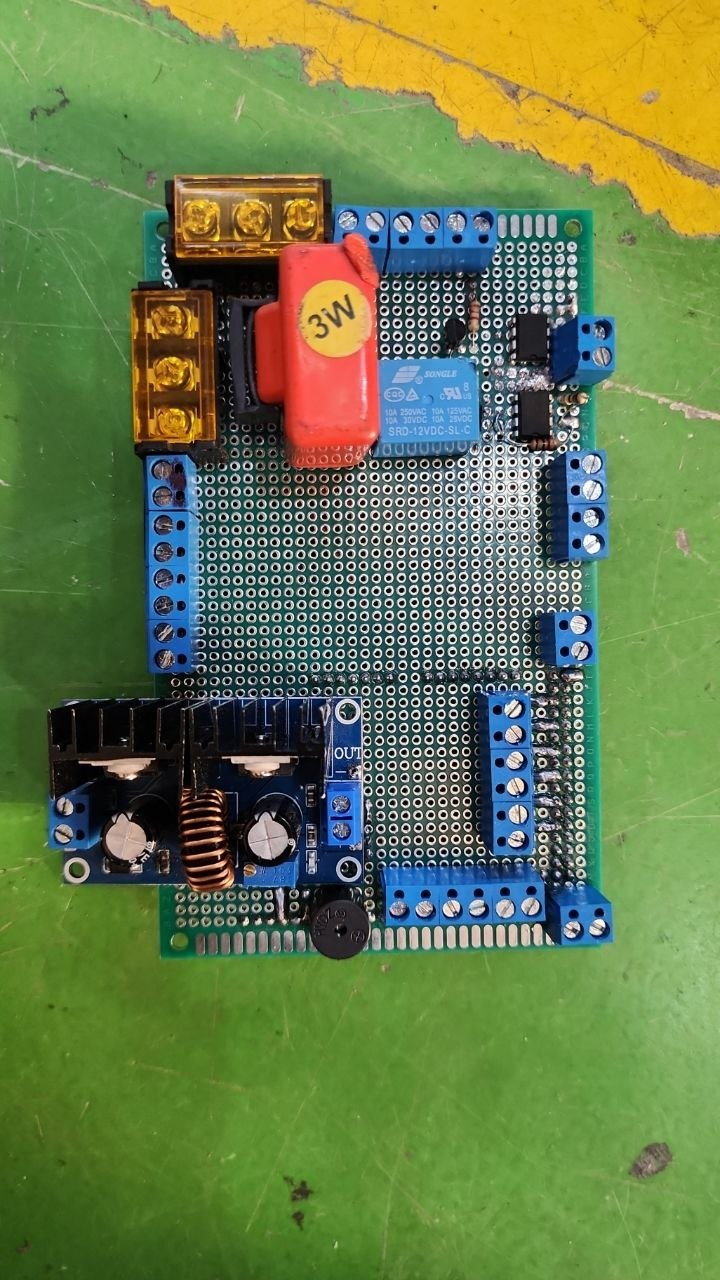
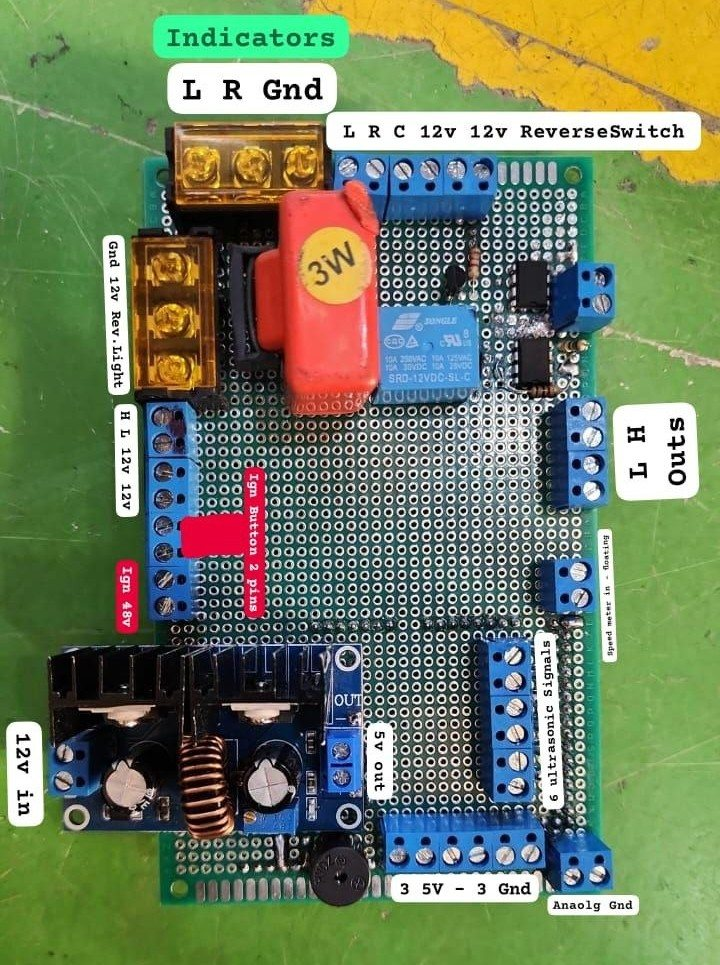
EVER 5: new photo set with competition-day main image; more space under 3D preview
Claude-Session: https://claude.ai/code/session_01GDMxHVDaxneFdes9ouXJvJ

diff --git a/index.html b/index.html
@@ -526,15 +526,15 @@ body{overflow-x:clip}
 @media (max-width:420px){.skcard{width:auto}}
 
 /* v21 3D board tour */
-.tour3d{margin-inline:-20px;padding-block:clamp(56px,8vw,96px) 0}
+.tour3d{margin-inline:-20px;padding-block:clamp(56px,8vw,96px) clamp(48px,7vw,96px)}
 .tour3d .t3head{width:fit-content;max-width:min(1100px,calc(100% - 40px));margin-inline:auto;padding:14px 22px;border-radius:20px;background:color-mix(in srgb,var(--bg) 80%,transparent);-webkit-backdrop-filter:blur(6px);backdrop-filter:blur(6px)}
 .t3wrap{display:grid;margin-top:12px}
 .t3wrap>*{grid-area:1/1}
 .t3stage{position:sticky;top:calc(var(--navh,52px) + 6px);align-self:start;height:calc(100vh - var(--navh,52px) - 12px);height:calc(100svh - var(--navh,52px) - 12px);z-index:0;pointer-events:none;-webkit-mask-image:linear-gradient(transparent,#000 9%,#000 91%,transparent);mask-image:linear-gradient(transparent,#000 9%,#000 91%,transparent)}
 .t3stage.live{pointer-events:auto}
-.t3stage model-viewer{position:absolute;inset:0;width:100%;height:100%;--poster-color:transparent;background:transparent;touch-action:pan-y;opacity:0;transition:opacity .6s}
+.t3stage model-viewer{position:absolute;left:0;top:0;width:100%;height:calc(100% - 40px);--poster-color:transparent;background:transparent;touch-action:pan-y;opacity:0;transition:opacity .6s}
 .t3stage.ready model-viewer{opacity:1}
-.t3poster{position:absolute;inset:0;width:100%;height:100%;object-fit:contain;object-position:60% 50%;transition:opacity .5s}
+.t3poster{position:absolute;left:0;top:0;width:100%;height:calc(100% - 64px);object-fit:contain;object-position:60% 40%;transition:opacity .5s}
 .t3stage.ready .t3poster{opacity:0}
 .t3go{position:absolute;left:62%;top:50%;transform:translate(-50%,-50%);pointer-events:auto;display:inline-flex;align-items:center;gap:10px;padding:14px 26px;border-radius:980px;border:0;background:var(--btn);color:var(--btn-ink);font:600 1rem var(--f);cursor:pointer;box-shadow:0 10px 30px rgba(0,0,0,.28);transition:transform .2s,opacity .3s}
 .t3go:hover{transform:translate(-50%,-50%) scale(1.04)}
@@ -1146,7 +1146,7 @@ body{overflow-x:clip}
   </div>
   <div class="t3wrap">
     <div class="t3stage" id="t3stage">
-      <img class="t3poster" src="3d/poster.webp" alt="Preview of the 3D board stack" width="1350" height="780">
+      <img class="t3poster" src="3d/poster.webp" alt="Preview of the 3D board stack" width="712" height="582">
       <model-viewer id="t3mv" alt="Interactive 3D model of the ROV control and power board stack" camera-controls disable-zoom interaction-prompt="none" shadow-intensity="1.1" shadow-softness=".8" exposure="1.05" field-of-view="30deg" camera-orbit="25deg 40deg 1.9m" camera-target="0m 0m 0m" min-camera-orbit="auto auto 0.1m" max-camera-orbit="auto auto 6m" interpolation-decay="140"></model-viewer>
       <button class="t3go" id="t3go" type="button">Load the 3D model <small id="t3sz">12 MB</small></button>
       <div class="t3ld" id="t3ld"><span id="t3pct">Loading…</span></div>

diff --git a/config.js b/config.js
@@ -249,9 +249,13 @@ window.SITE = {
       ["photos/plotter/plotter-0421.jpg", "Writing on paper"],
     ],
     ev: [
-      ["photos/ev/ev-team.jpg", "The EVER 5 team at the racetrack"],
+      ["photos/ev/ev-competition-front.jpg", "The car on competition day, seen from the front"],
+      ["photos/ev/ev-rear.jpg", "The finished car from the rear"],
+      ["photos/ev/ev-fender.jpg", "The body and front wheel arch up close"],
+      ["photos/ev/ev-early-body.jpg", "An earlier stage: the body before its white finish"],
+      ["photos/ev/ev-night.jpg", "Doors and bonnet open at night"],
+      ["photos/ev/ev-electronics.jpg", "The rear compartment with the drive electronics"],
       ["photos/ev/ev-board.jpg", "Low-voltage control electronics I built for the car"],
-      ["photos/ev/ev-group.jpg", "With the team on competition day"],
     ],
 
     omnibot: [
